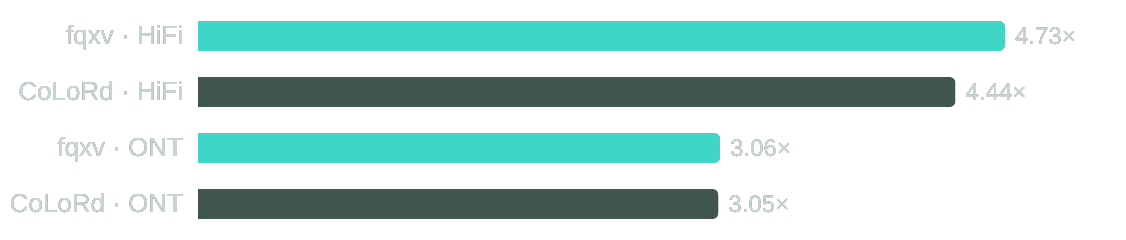
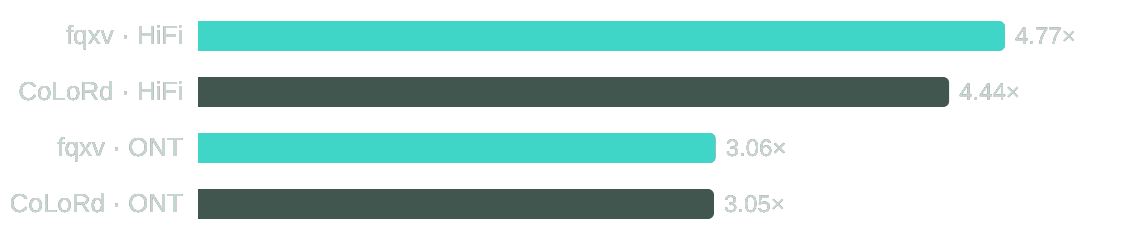
docs(bench): refresh numbers after #234/#235 — HiFi gains (#241)

diff --git a/bench/RESULTS.md b/bench/RESULTS.md
@@ -1,4 +1,4 @@
-# Benchmark results — 2026-07-21
+# Benchmark results — 2026-07-22
 
 Snapshot from the unified parallel harness (`submit_parallel.sh`) on the Bodhi
 `rna` partition: 9 datasets × platform-appropriate tools = 150 cells, each fanned
@@ -8,10 +8,13 @@ on **both** Sequel II and Revio. Ratios are deterministic (thread-count
 independent); `rt=yes` means the round-trip content digest matched (lossless, or
 lossy-expected for the binned points). Reproduce with `bash submit_parallel.sh`.
 
-Re-run on `1b6eeb5` (post-v0.4.0). Every ratio and per-stream size below
-reproduced **byte-for-byte** from the v0.4.0 tables — the PRs since (#218 Python
-bindings, #222/#223) changed no output. What moved is long-read compress *speed*
-(see [Long-read compress speed](#long-read-compress-speed)).
+Re-run on `2468cb2`. Every short-read ratio, and the ONT and Revio-WGS long-read
+ratios, reproduced **byte-for-byte** from the prior tables. What moved is **HiFi**:
+the anchor-restricted HiFi consensus coder (#234) shaved the sequence stream and
+the per-block quality quantizer (#235, trialled and kept only when smaller) shaved
+the quality stream, lifting `ecoli_hifi` **4.73× → 4.77×** and `hifi_revio_amplicon`
+21.79× → 21.80×. The same quality quantizer shrank the binned ONT stream, taking
+`ecoli_ont --quality-bin ont` **6.68× → 7.17×**.
 
 Two long-read sequence codecs landed since the 2026-07-20 run and move the
 numbers below: a **raw-LZMA** sequence method for ordinary-coverage long reads
@@ -55,9 +58,9 @@ coder (#231, which aligns only inter-anchor gaps). All rows round-trip losslessl
 
 | dataset             |     fqxv |  fqxv9 |    colord | zstd19 |   xz9 | gzip |
 |---------------------|---------:|-------:|----------:|-------:|------:|-----:|
-| hifi_revio_amplicon |**21.79** |  21.79 |     19.88 |  15.12 | 14.45 | 8.96 |
+| hifi_revio_amplicon |**21.80** |  21.80 |     19.88 |  15.12 | 14.45 | 8.96 |
 | hifi_revio_wgs      |    16.95 |  16.95 | **18.76** |  13.02 | 12.75 | 9.28 |
-| ecoli_hifi          | **4.73** |   4.73 |      4.44 |   3.83 |  3.85 | 2.27 |
+| ecoli_hifi          | **4.77** |   4.77 |      4.44 |   3.83 |  3.85 | 2.27 |
 | ecoli_ont           |     3.01 |**3.06**|      3.05 |   2.38 |  2.49 | 1.94 |
 
 The per-stream split (fqxv best lossless point, from `fqxv info`) shows where the
@@ -65,9 +68,9 @@ two levers landed:
 
 | dataset             | seq (b/base) |  seq (bytes) | quality (bytes) | quality share |
 |---------------------|-------------:|-------------:|----------------:|--------------:|
-| ecoli_hifi          |        0.065 |   12,643,309 |     641,788,411 |       **98%** |
-| hifi_revio_amplicon |        0.083 |    6,299,312 |      49,187,324 |           84% |
-| hifi_revio_wgs      |    **0.683** |  115,329,481 |      44,876,883 |           28% |
+| ecoli_hifi          |        0.064 |   12,286,488 |     635,629,989 |       **98%** |
+| hifi_revio_amplicon |        0.083 |    6,276,266 |      49,183,082 |           84% |
+| hifi_revio_wgs      |    **0.683** |  115,329,481 |      44,786,803 |           28% |
 | ecoli_ont (`-l9`)   |    **0.887** |   33,404,890 |     163,660,203 |           83% |
 
 **`hifi_revio_wgs` was the worst result in the suite** — 1.391 b/base of sequence
@@ -90,7 +93,7 @@ archive is now smaller. The anchor coder also lifts default `fqxv` (2.92× → 3
 depth is effort-gated so the deepest references are spent only at `-l9`/`--max`.
 
 **`ecoli_hifi` (Sequel II, ~300×) still leads CoLoRd on every stream** — sequence
-12.6M vs 13.4M, quality 641.8M vs 684.3M, total 656.0M vs 697.7M — at 4.73×. This
+12.3M vs 13.4M, quality 635.6M vs 684.3M, total 649.5M vs 697.7M — at 4.77×. This
 is why one HiFi dataset was never enough: `ecoli_hifi` is 98% quality by bytes
 (300× coverage of a 4.6 Mb genome collapses the sequence stream), while Revio WGS
 at ordinary coverage is 72% sequence. The two datasets exercise opposite regimes,
@@ -119,12 +122,13 @@ read-reordering on top of binning.
 |------------------|-----:|-----:|-----:|-------------:|
 | rnaseq_novaseq   | 9.94 | 9.94 | 11.37|        33.98 |
 | rnaseq_fullrange |10.84 |14.49 | 15.37|        31.95 |
-| ecoli_ont (binont)| 6.68|   —  |   —  |            — |
+| ecoli_ont (binont)| 7.17|   —  |   —  |            — |
 
-`ecoli_ont --quality-bin ont` improved 5.83 → 6.68 as its sequence stream picked
-up the tiling codec. On the lossy long-read points the sequence stream dominates
-the archive, so the ONT sequence lever matters more there than in the lossless
-totals above.
+`ecoli_ont --quality-bin ont` improved 5.83 → 6.68 (the tiling codec on its
+sequence stream) → **7.17** this cycle, as the per-block quality quantizer (#235)
+shrank the binned quality stream from ~53M to 47M. On the lossy long-read points
+the sequence stream still dominates the archive, so the ONT sequence lever matters
+more there than in the lossless totals above.
 
 ## fqxv archive vs native NCBI `.sra` (lossless `max` regime)
 

diff --git a/docs/benchmarks.md b/docs/benchmarks.md
@@ -127,18 +127,18 @@ basecaller):
 | Tool | Total | Non-quality | Quality | Non-quality bits/base |
 | --- | ---: | ---: | ---: | ---: |
 | CoLoRd `-q org` | 697.7M | 13.4M | 684.3M | 0.069 |
-| `fqxv` | **656.0M** | **12.6M (seq)** | **641.8M** | **0.065** |
+| `fqxv` | **649.5M** | **12.3M (seq)** | **635.6M** | **0.064** |
 
 Two facts hold on both platforms:
 
 - **Quality beats CoLoRd on both platforms.** fqxv's binary-decomposition,
-  context-mixing quality coder codes the HiFi quality stream to **641.8M vs
-  CoLoRd's 684.3M** (~6% smaller) and ONT to **163.7M vs 166.5M** (~2% smaller).
-  On HiFi that quality win carries the **lossless total ahead of CoLoRd** (656.0M
-  vs 697.7M, **4.73× vs 4.44×** on the full file); on ONT fqxv now edges ahead on
+  context-mixing quality coder codes the HiFi quality stream to **635.6M vs
+  CoLoRd's 684.3M** (~7% smaller) and ONT to **163.7M vs 166.5M** (~2% smaller).
+  On HiFi that quality win carries the **lossless total ahead of CoLoRd** (649.5M
+  vs 697.7M, **4.77× vs 4.44×** on the full file); on ONT fqxv now edges ahead on
   the **total** too — **197.1M vs 197.9M** (3.06× vs 3.05×).
 - **The sequence stream is no longer a blanket deficit.** On HiFi Sequel II it is a
-  *credit* (12.6M vs 13.4M) — the same locus is read hundreds of times at ~300×,
+  *credit* (12.3M vs 13.4M) — the same locus is read hundreds of times at ~300×,
   and fqxv now assembles one whole-file consensus and codes each read against it. On
   ONT it is down to 33.4M vs 31.4M — ~6% behind on sequence (the anchor-restricted
   coder aligns only inter-anchor gaps), which the quality credit now more than
@@ -179,7 +179,7 @@ different coverage/error regime:
   stores it once in a framed region before the first block, and codes every block's
   reads against that frozen frame — so a read codes identically no matter which
   block holds it, and blocks stay independently decodable. On `ecoli_hifi` (120k
-  reads, 1.55 Gbase, ~300×) this puts the sequence stream at **0.065 bits/base**,
+  reads, 1.55 Gbase, ~300×) this puts the sequence stream at **0.064 bits/base**,
   past CoLoRd's 0.069 — a ~10× shrink over the within-read model. Storing the
   reference once instead of per block was the whole gap.
 - **Raw large-window LZMA** — the ordinary-coverage lever, and the biggest change

diff --git a/docs/design/longread.md b/docs/design/longread.md
@@ -99,15 +99,15 @@ high-Q, low error):
 | tool | total | non-quality (seq+names) | qual | non-quality bits/base |
 | --- | --- | --- | --- | --- |
 | CoLoRd `-q org` | 697.7M | **13.4M** | 684.3M | 0.069 |
-| fqxv (shared ref) | 656.0M | **12.6M** (seq) | 641.8M | 0.065 |
+| fqxv (shared ref) | 649.5M | **12.3M** (seq) | 635.6M | 0.064 |
 
 Two facts, confirmed on **both** platforms:
 
 1. **Quality leads on both platforms.** fqxv's binary-decomposition
-   context-mixing quality coder codes the HiFi quality stream to **641.8M vs
-   CoLoRd's 684.3M** (~6% smaller) and ONT to **163.7M vs 166.5M** (~2% smaller).
+   context-mixing quality coder codes the HiFi quality stream to **635.6M vs
+   CoLoRd's 684.3M** (~7% smaller) and ONT to **163.7M vs 166.5M** (~2% smaller).
    Quality is a *credit* against CoLoRd on both sets — enough to carry the HiFi
-   lossless total ahead of CoLoRd (656.0M vs 697.7M), and on ONT to net the total
+   lossless total ahead of CoLoRd (649.5M vs 697.7M), and on ONT to net the total
    ahead of CoLoRd once the sequence lever lands. Lever 1 has flipped in fqxv's
    favor.
 2. **The sequence stream — once the whole gap — is now closed on high-coverage
@@ -294,7 +294,7 @@ file (120k reads, 1.55 Gbase, 6 blocks at ~52×) put the sequence stream at 0.10
 bits/base — 6.1× smaller than the 0.653 fallback (total archive 4.04×) — but
 above CoLoRd's whole-file 0.068, the gap being coverage per reference. That is
 what the shared whole-file reference below closes: the same archive now measures
-**0.065 bits/base at a 4.73× total, past CoLoRd's 0.068**.
+**0.064 bits/base at a 4.77× total, past CoLoRd's 0.068**.
 
 **Shared whole-file reference (implemented).** The gap *is* reference
 duplication: each block re-stored the same assembled genome, so a ~300× file kept

diff --git a/README.md b/README.md
@@ -21,7 +21,7 @@ Best lossless ratio per platform, against the strongest alternative for that dat
 | Illumina NovaSeq (binned quality) | **29.2×** | SPRING 25.3× | 5.0× |
 | Illumina GAIIx (full-range quality) | **11.6×** | SPRING 10.0× | 3.7× |
 | Illumina MiSeq (*E. coli* WGS) | **7.4×** | SPRING 7.3× | 2.9× |
-| PacBio HiFi (*E. coli*, ~300×) | **4.7×** | CoLoRd 4.4× | 2.3× |
+| PacBio HiFi (*E. coli*, ~300×) | **4.8×** | CoLoRd 4.4× | 2.3× |
 | Oxford Nanopore (MinION) | **3.06×** | CoLoRd 3.05× | 1.9× |
 
 The Illumina rows use `--order shuffle`, which reorders reads and renumbers names —

diff --git a/docs/cli/compress.md b/docs/cli/compress.md
@@ -185,7 +185,7 @@ ONT data the `ont` and `hifi` tables are byte-identical, since ONT never reaches
 Q93.
 
 On the `ecoli_ont` benchmark, `--quality-bin ont` cuts the quality stream from
-163.7 MB to 47.0 MB (3.5×) — the whole archive from 2.92× to 6.68× — at mean
+163.7 MB to 47.0 MB (3.5×) — the whole archive from 3.01× to 7.17× — at mean
 |Δ| 3.35. Cutpoints should ultimately be
 judged by downstream fidelity, not raw ratio — see
 [Long-read support](../design/longread.md).